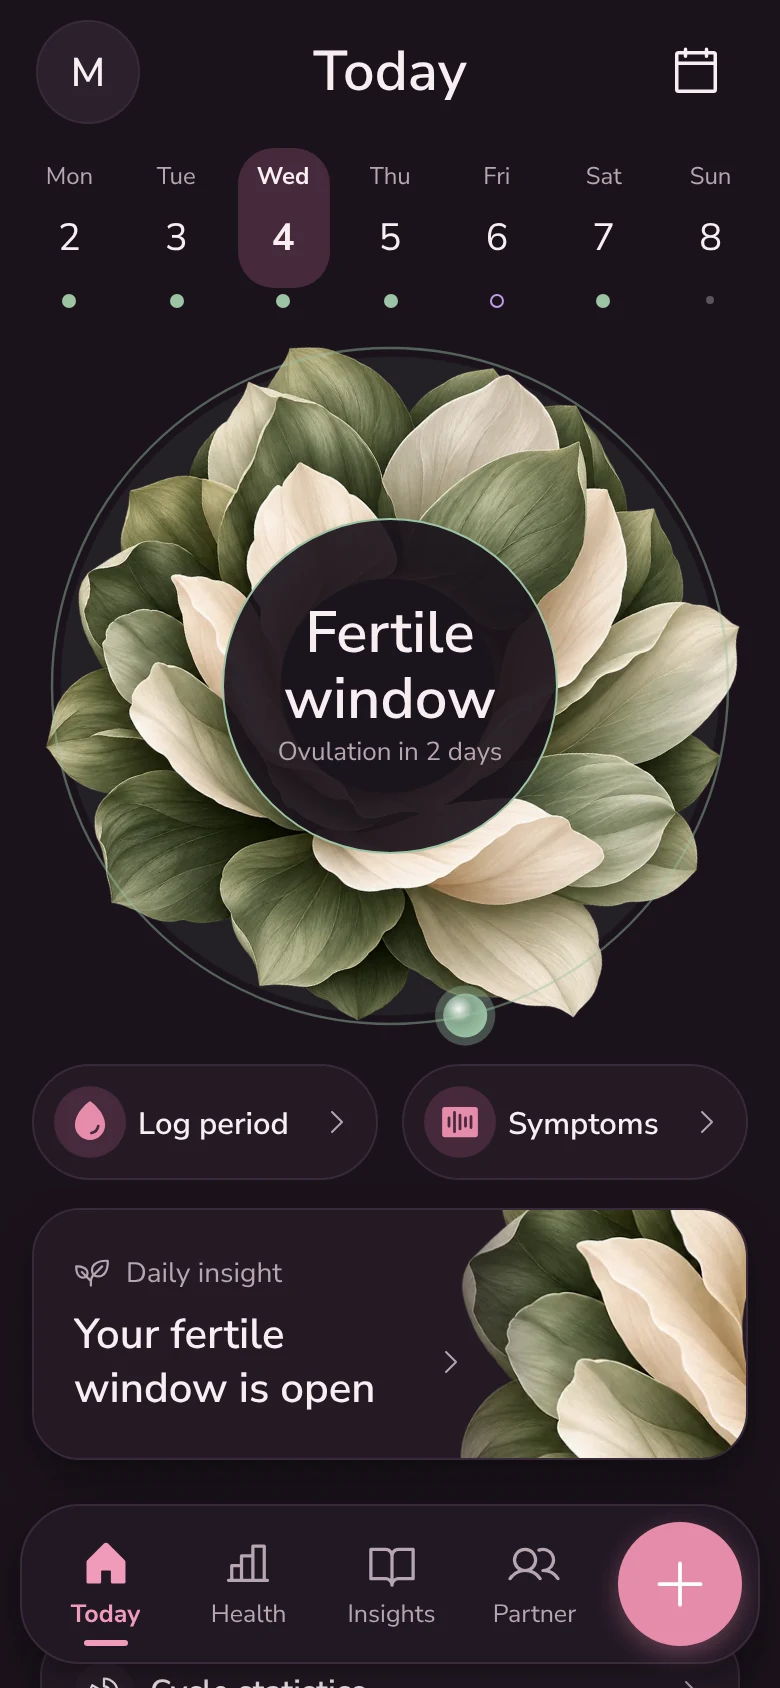
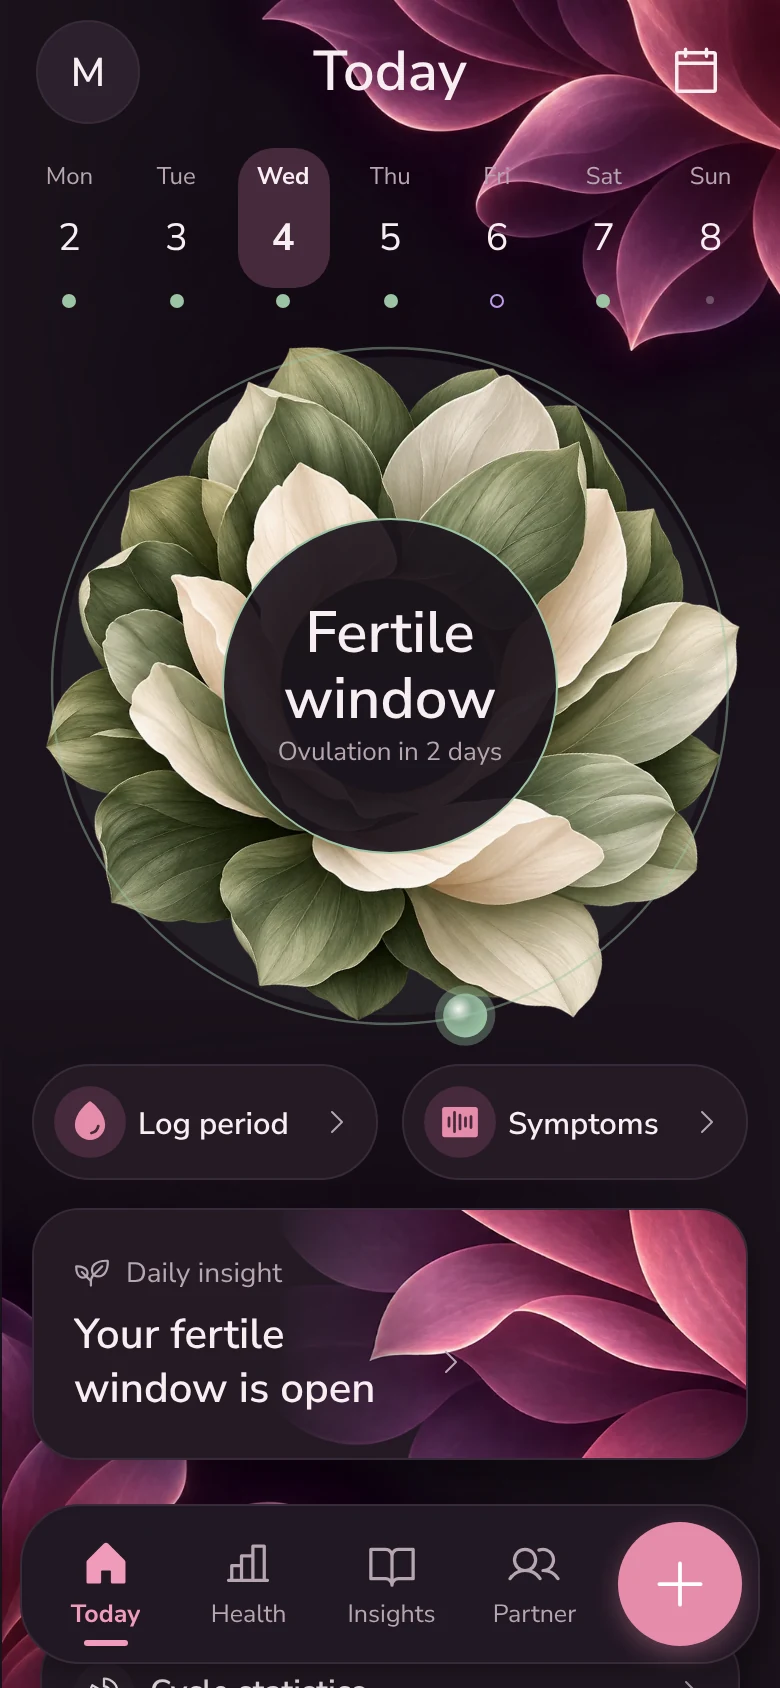
Corner and card petals from the new artwork, matched to light and dark themes
- Today, Health and Insights: 'Light/Dark Corner Petals' pinned to the screen corners behind the
  content (fixed, decorative). Each image is split into top and bottom pieces so it fits phones,
  tablets and desktops; the dark pieces' inner edges are softened so no seam shows on wide screens.
  Replaces the old single corner bloom.
- Today's Daily insight card: 'Light/Dark Card Petals' along the right edge.
- Health: the sticky tab row is transparent at the top and solid once it sticks.
- Originals in design/petals/, optimised copies in app/assets/petals/; README screenshots refreshed.

Claude-Session: https://claude.ai/code/session_01MSWr9YJh93DQjGqFjrqjsk

Changed region(s): [[0.3385, 0.0, 1.0, 0.2156], [0.4, 0.7085, 0.9538, 0.8626], [0.0, 0.7701, 0.2462, 1.0]]

diff --git a/app/src/screens/Health.tsx b/app/src/screens/Health.tsx
@@ -1,4 +1,5 @@
 import React, { useEffect, useMemo, useState } from 'react';
+import { PetalBackdrop } from '../petals';
 import { ScrollView, StyleSheet, View, useWindowDimensions } from 'react-native';
 import Reanimated, { FadeIn, FadeInDown, useAnimatedStyle, useReducedMotion, useSharedValue, withSpring } from 'react-native-reanimated';
 import { useSafeAreaInsets } from 'react-native-safe-area-context';
@@ -90,6 +91,8 @@ export function Health() {
   useEffect(() => { if (nav.healthTab) setTab(nav.healthTab); }, [nav.healthTab, nav.healthKey]);
   const d = useWidgetData();
   const [date, setDate] = useState<DateStr>(d.today);
+  // The tab row is see-through at the top (so the corner petals show) and solid once it sticks over content.
+  const [stuck, setStuck] = useState(false);
   const connections = useHealth((s) => s.connections);
   const sample = useHealth((s) => s.sample);
   const connected = Object.keys(connections).length > 0;
@@ -128,40 +131,44 @@ export function Health() {
     { metric: 'tempDeviationC', title: 'Temperature vs baseline', icon: 'thermometer', kind: 'line', color: colors.period, fmt: (v) => `${v >= 0 ? '+' : '−'}${Math.abs(d.unit === 'F' ? v * 1.8 : v).toFixed(2)} °${d.unit}`, opens: 'body', optional: true },
   ];
   return (
-    <ScrollView contentContainerStyle={{ paddingTop: insets.top + 8, paddingBottom: 140, maxWidth: 640, width: '100%', alignSelf: 'center' }} stickyHeaderIndices={[1]}>
-      <TabHeader title="Health" onAvatar={() => nav.openSettings()}
-        right={<PressScale accessibilityLabel="Health connections" onPress={() => nav.openConnections()} style={h.iconBtn}><Icon name="link-variant" size={26} color={colors.heading} /></PressScale>} />
-      <View style={{ backgroundColor: colors.bg, paddingVertical: 8 }}>
-        <PillTabs options={TABS} value={tab} onChange={setTab} />
-      </View>
-      {sample ? (
-        <PressScale accessibilityRole="button" accessibilityLabel="Sample data is shown. Open connections" onPress={() => nav.openConnections()} style={h.sampleRow}>
-          <Text style={h.sampleT}>Sample data</Text>
-          <Icon name="info" size={16} color={colors.muted} />
-        </PressScale>
-      ) : null}
-      {tab === 'overview' ? (
-        <Reanimated.View key="overview" entering={FadeIn.duration(220)}>
-          {!connected && (
-            <Reanimated.View entering={FadeInDown.springify()} style={h.card}>
-              <Text style={h.cardTitle}>Connect your health data</Text>
-              <Text style={[h.sub, { color: colors.text, marginVertical: 6 }]}>Apple Health, Health Connect (Samsung Health, Fitbit, Google and more on Android) or your Fitbit account.</Text>
-              <Btn icon="link-variant" title="Connect a tracker" onPress={() => nav.openConnections()} />
-            </Reanimated.View>
-          )}
-          {cards.filter((c) => !c.optional || Object.values(d.days).some((x) => x[c.metric] != null)).map((c, i) => <OverviewCard key={c.metric} def={c} delay={i * STAGGER} onPress={() => setTab(c.opens)} />)}
-        </Reanimated.View>
-      ) : (
-        <Reanimated.View key={tab} entering={FadeIn.duration(220)}>
-          <View style={h.dayNav}>
-            <PressScale accessibilityLabel="Previous day" onPress={() => setDate(addDays(date, -1))} style={h.iconBtn}><Icon name="chevron-left" size={24} color={colors.heading} /></PressScale>
-            <View style={h.dayPill}><Text style={{ fontSize: 18, fontWeight: '600', color: colors.heading }}>{date === d.today ? 'Today' : fmtDay(date)}</Text></View>
-            <PressScale accessibilityLabel="Next day" disabled={date >= d.today} onPress={() => setDate(addDays(date, 1))} style={[h.iconBtn, date >= d.today && { opacity: 0.3 }]}><Icon name="chevron-right" size={24} color={colors.heading} /></PressScale>
-          </View>
-          {cfg[tab].filter((c) => !['hrv', 'tempDeviationC'].includes(c.metric) || Object.values(d.days).some((x) => x[c.metric] != null)).map((c, i) => <MetricBlock key={c.metric} cfg={c} date={date} delay={i * STAGGER * 2} />)}
-        </Reanimated.View>
-      )}
-    </ScrollView>
+    <View style={{ flex: 1, backgroundColor: colors.bg }}>
+      <PetalBackdrop />
+      <ScrollView contentContainerStyle={{ paddingTop: insets.top + 8, paddingBottom: 140, maxWidth: 640, width: '100%', alignSelf: 'center' }} stickyHeaderIndices={[1]}
+        scrollEventThrottle={32} onScroll={(e) => { const s = e.nativeEvent.contentOffset.y > 24; if (s !== stuck) setStuck(s); }}>
+        <TabHeader title="Health" onAvatar={() => nav.openSettings()}
+          right={<PressScale accessibilityLabel="Health connections" onPress={() => nav.openConnections()} style={h.iconBtn}><Icon name="link-variant" size={26} color={colors.heading} /></PressScale>} />
+        <View style={{ backgroundColor: stuck ? colors.bg : 'transparent', paddingVertical: 8 }}>
+          <PillTabs options={TABS} value={tab} onChange={setTab} />
+        </View>
+        {sample ? (
+          <PressScale accessibilityRole="button" accessibilityLabel="Sample data is shown. Open connections" onPress={() => nav.openConnections()} style={h.sampleRow}>
+            <Text style={h.sampleT}>Sample data</Text>
+            <Icon name="info" size={16} color={colors.muted} />
+          </PressScale>
+        ) : null}
+        {tab === 'overview' ? (
+          <Reanimated.View key="overview" entering={FadeIn.duration(220)}>
+            {!connected && (
+              <Reanimated.View entering={FadeInDown.springify()} style={h.card}>
+                <Text style={h.cardTitle}>Connect your health data</Text>
+                <Text style={[h.sub, { color: colors.text, marginVertical: 6 }]}>Apple Health, Health Connect (Samsung Health, Fitbit, Google and more on Android) or your Fitbit account.</Text>
+                <Btn icon="link-variant" title="Connect a tracker" onPress={() => nav.openConnections()} />
+              </Reanimated.View>
+            )}
+            {cards.filter((c) => !c.optional || Object.values(d.days).some((x) => x[c.metric] != null)).map((c, i) => <OverviewCard key={c.metric} def={c} delay={i * STAGGER} onPress={() => setTab(c.opens)} />)}
+          </Reanimated.View>
+        ) : (
+          <Reanimated.View key={tab} entering={FadeIn.duration(220)}>
+            <View style={h.dayNav}>
+              <PressScale accessibilityLabel="Previous day" onPress={() => setDate(addDays(date, -1))} style={h.iconBtn}><Icon name="chevron-left" size={24} color={colors.heading} /></PressScale>
+              <View style={h.dayPill}><Text style={{ fontSize: 18, fontWeight: '600', color: colors.heading }}>{date === d.today ? 'Today' : fmtDay(date)}</Text></View>
+              <PressScale accessibilityLabel="Next day" disabled={date >= d.today} onPress={() => setDate(addDays(date, 1))} style={[h.iconBtn, date >= d.today && { opacity: 0.3 }]}><Icon name="chevron-right" size={24} color={colors.heading} /></PressScale>
+            </View>
+            {cfg[tab].filter((c) => !['hrv', 'tempDeviationC'].includes(c.metric) || Object.values(d.days).some((x) => x[c.metric] != null)).map((c, i) => <MetricBlock key={c.metric} cfg={c} date={date} delay={i * STAGGER * 2} />)}
+          </Reanimated.View>
+        )}
+      </ScrollView>
+    </View>
   );
 }
 

diff --git a/app/src/petals.tsx b/app/src/petals.tsx
@@ -1,0 +1,55 @@
+import React, { useState } from 'react';
+import { Image, StyleSheet, View, useWindowDimensions, type ImageSourcePropType } from 'react-native';
+import { scheme } from './theme';
+
+/**
+ * Petal artwork for the light and dark themes (originals in design/petals/).
+ * The full-screen corner images are split into a top and a bottom piece so each can be pinned to its corner
+ * on any screen shape (phones are taller than the 9:16 artwork, tablets and desktops are wider).
+ */
+type Piece = { src: ImageSourcePropType; ratio: number; side: 'left' | 'right' };
+const CORNERS: Record<'light' | 'dark', { top: Piece; bottom: Piece }> = {
+  light: {
+    top: { src: require('../assets/petals/corner-light-top.webp'), ratio: 1.6804, side: 'left' },
+    bottom: { src: require('../assets/petals/corner-light-bottom.webp'), ratio: 1.3216, side: 'right' },
+  },
+  dark: {
+    top: { src: require('../assets/petals/corner-dark-top.webp'), ratio: 1.1256, side: 'right' },
+    bottom: { src: require('../assets/petals/corner-dark-bottom.webp'), ratio: 1.1256, side: 'left' },
+  },
+};
+const CARD: Record<'light' | 'dark', { src: ImageSourcePropType; ratio: number }> = {
+  light: { src: require('../assets/petals/card-light.webp'), ratio: 3.5982 },
+  dark: { src: require('../assets/petals/card-dark.webp'), ratio: 3.4578 },
+};
+const themeKey = () => (scheme === 'dark' ? 'dark' : 'light');
+
+/**
+ * Petals in the screen corners, behind everything else on a tab screen. Fixed in place (they do not scroll)
+ * and purely decorative, so screen readers skip them.
+ */
+export function PetalBackdrop() {
+  const { width } = useWindowDimensions();
+  const w = Math.min(width, 520);
+  const { top, bottom } = CORNERS[themeKey()];
+  return (
+    <View pointerEvents="none" style={StyleSheet.absoluteFill} accessibilityElementsHidden importantForAccessibility="no-hide-descendants" testID="petal-backdrop">
+      <Image source={top.src} resizeMode="contain" fadeDuration={0}
+        style={{ position: 'absolute', top: 0, [top.side]: 0, width: w, height: w / top.ratio }} />
+      <Image source={bottom.src} resizeMode="contain" fadeDuration={0}
+        style={{ position: 'absolute', bottom: 0, [bottom.side]: 0, width: w, height: w / bottom.ratio }} />
+    </View>
+  );
+}
+
+/** Card petals filling a card's height from the right edge. Place it first inside a card with overflow hidden. */
+export function CardPetals() {
+  const [h, setH] = useState(0);
+  const art = CARD[themeKey()];
+  return (
+    <View pointerEvents="none" style={StyleSheet.absoluteFill} onLayout={(e) => setH(e.nativeEvent.layout.height)}
+      accessibilityElementsHidden importantForAccessibility="no-hide-descendants" testID="card-petals">
+      {h > 0 ? <Image source={art.src} resizeMode="contain" fadeDuration={0} style={{ position: 'absolute', right: 0, top: 0, height: h, width: h * art.ratio }} /> : null}
+    </View>
+  );
+}

diff --git a/app/src/screens/Insights.tsx b/app/src/screens/Insights.tsx
@@ -1,9 +1,10 @@
 import React, { useMemo, useState } from 'react';
-import { Animated, Image, ScrollView, StyleSheet, View } from 'react-native';
+import { Animated, ScrollView, StyleSheet, View } from 'react-native';
 import { Text } from '../text';
 import { useSafeAreaInsets } from 'react-native-safe-area-context';
 import { addDays, derivePeriods, describeSources, detectOvulation, diffDays, predict, today as todayFn, type DateStr, type DayLog } from '@avelune/core';
 import { FadeIn, PressScale, useLoop } from '../anim';
+import { PetalBackdrop } from '../petals';
 import { labelOf } from '../catalog';
 import { Chart, CycleBar, MiniBars, type Pt } from '../charts';
 import { fmtShort } from '../components';
@@ -11,7 +12,7 @@ import { ARTICLES, DISCLAIMER } from '../content';
 import { Icon, type IconName } from '../icons';
 import { useNav, type ChartKind } from '../nav';
 import { cToDisplay, kgToDisplay, selectLogs, selectSettings, useStore } from '../store';
-import { colors, flowers, scheme, shadow, themed, type Bloom } from '../theme';
+import { colors, scheme, shadow, themed } from '../theme';
 import { Btn, Muted, PillTabs, TopBar } from '../ui';
 import { TabHeader } from './Today';
 
@@ -19,17 +20,6 @@ const REG = { unknown: 'Log 3+ cycles', regular: 'Regular', 'somewhat-irregular'
 
 type InsTab = 'cycle' | 'trends' | 'patterns';
 const MON = ['Jan', 'Feb', 'Mar', 'Apr', 'May', 'Jun', 'Jul', 'Aug', 'Sep', 'Oct', 'Nov', 'Dec'];
-
-/** Decorative bloom tucked into the top-right corner of a tab screen. */
-export function CornerBloom({ bloom = 'menstrual', top = 0 }: { bloom?: Bloom; top?: number }) {
-  const v = useLoop(6000);
-  return (
-    <Animated.View pointerEvents="none" style={{ position: 'absolute', right: -112, top: top - 138, width: 260, height: 260, opacity: scheme === 'dark' ? 0.9 : 0.95,
-      transform: [{ rotate: v.interpolate({ inputRange: [0, 1], outputRange: ['-4deg', '4deg'] }) }] }}>
-      <Image source={flowers[bloom]} style={{ width: 260, height: 260 }} resizeMode="contain" accessibilityIgnoresInvertColors />
-    </Animated.View>
-  );
-}
 
 export function Insights() {
   const nav = useNav();
@@ -68,8 +58,8 @@ export function Insights() {
   ];
   return (
     <View style={{ flex: 1, backgroundColor: colors.bg }}>
+      <PetalBackdrop />
       <ScrollView contentContainerStyle={{ paddingTop: insets.top + 8, paddingBottom: 140, maxWidth: 640, width: '100%', alignSelf: 'center' }}>
-        <CornerBloom top={insets.top} />
         <TabHeader title="Insights" onAvatar={() => nav.openSettings()} />
         <View style={{ marginTop: 6, marginBottom: 6, paddingRight: 64 }}>
           <PillTabs fill options={[['cycle', 'Cycle'], ['trends', 'Trends'], ['patterns', 'Patterns']]} value={tab} onChange={setTab} />

diff --git a/app/src/bloom.tsx b/app/src/bloom.tsx
@@ -1,4 +1,5 @@
 import React, { useEffect, useState } from 'react';
+import { CardPetals } from './petals';
 import { Image, StyleSheet, View, useWindowDimensions } from 'react-native';
 import { LinearGradient } from 'expo-linear-gradient';
 import Reanimated, {
@@ -205,13 +206,13 @@ export function ActionPill({ icon, label, onPress }: { icon: IconName; label: st
   );
 }
 
-/** Daily insight card with a cropped bloom fading in from the right edge. */
-export function InsightCard({ title, bloom, onPress, eyebrow = 'Daily insight' }: { title: string; bloom: Bloom; onPress: () => void; eyebrow?: string }) {
+/** Daily insight card with the theme's card petals along the right edge. */
+export function InsightCard({ title, onPress, eyebrow = 'Daily insight' }: { title: string; onPress: () => void; eyebrow?: string }) {
   return (
     <PressScale accessibilityRole="button" accessibilityLabel={`${eyebrow}: ${title}`} onPress={onPress}>
       <View style={b2.insight}>
-        <Image source={flowers[bloom]} style={b2.insightArt} resizeMode="cover" accessibilityIgnoresInvertColors />
-        <LinearGradient colors={[colors.card, colors.card, 'transparent']} locations={[0, 0.5, 0.72]} start={{ x: 0, y: 0.5 }} end={{ x: 1, y: 0.5 }} style={StyleSheet.absoluteFill} />
+        <CardPetals />
+        <LinearGradient colors={[colors.card, colors.card, 'transparent']} locations={[0, 0.34, 0.56]} start={{ x: 0, y: 0.5 }} end={{ x: 1, y: 0.5 }} style={StyleSheet.absoluteFill} />
         <View style={{ flex: 1, paddingRight: 120 }}>
           <View style={{ flexDirection: 'row', alignItems: 'center', marginBottom: 8 }}>
             <Icon name="sprout" size={18} color={colors.muted} />
@@ -238,7 +239,6 @@ const b2 = themed(() => StyleSheet.create({
     flexDirection: 'row', alignItems: 'center', minHeight: 126, borderRadius: 24, padding: 20, overflow: 'hidden',
     backgroundColor: colors.card, borderWidth: 1, borderColor: colors.border, ...shadow,
   },
-  insightArt: { position: 'absolute', right: -300, top: -170, width: 460, height: 460 },
   eyebrow: { fontSize: 14, color: colors.muted, marginLeft: 8 },
   insightT: { flexShrink: 1, fontSize: 21, lineHeight: 27, color: colors.heading, fontWeight: '700' },
 }));

diff --git a/app/src/screens/Today.tsx b/app/src/screens/Today.tsx
@@ -9,6 +9,7 @@ import { FadeIn, PressScale } from '../anim';
 import { ARTICLES } from '../content';
 import { WeekStrip, fmtDay, statusFor, type Status } from '../components';
 import { ActionPill, BloomCircle, InsightCard } from '../bloom';
+import { PetalBackdrop } from '../petals';
 import { Icon, type IconName } from '../icons';
 import { useNav } from '../nav';
 import { selectLogs, selectSettings, useStore } from '../store';
@@ -114,6 +115,7 @@ export function Today() {
 
   return (
     <View style={{ flex: 1, backgroundColor: colors.bg }}>
+      <PetalBackdrop />
       <ScrollView contentContainerStyle={{ paddingTop: insets.top + 8, paddingBottom: 140, maxWidth: 640, width: '100%', alignSelf: 'center' }}>
         <TabHeader title={selected === today ? 'Today' : fmtDay(selected)} onAvatar={() => nav.openSettings()}
           right={<PressScale accessibilityLabel="Open calendar" onPress={() => nav.openCalendar()} style={st.iconBtn}><Icon name="calendar-month-outline" size={28} color={colors.heading} /></PressScale>} />
@@ -158,7 +160,7 @@ export function Today() {
         </FadeIn>
 
         <FadeIn delay={200} style={{ marginHorizontal: 16 }}>
-          <InsightCard bloom={bloom} title={insight.title} onPress={() => (preg ? nav.openWeek(preg.week) : nav.openArticle(insight.article ?? tips[0].id))} />
+          <InsightCard title={insight.title} onPress={() => (preg ? nav.openWeek(preg.week) : nav.openArticle(insight.article ?? tips[0].id))} />
         </FadeIn>
 
         <HomeWidgets onOpen={(def) => (def.opens ? nav.openHealth(def.opens) : def.id === 'cycleStats' || def.id === 'nextPeriod' ? nav.openChart('cycles') : nav.openLog(today))} />

diff --git a/docs/FEATURES.md b/docs/FEATURES.md
@@ -523,3 +523,13 @@ Cycle reminders pause in pregnancy mode. On the web, reminders are set up from t
 - **Settings → About Avelune:** the same points, ways to support the project, a GitHub link, and the terms and privacy policy.
 - **Source of the text:** `app/src/legal.ts`. `node scripts/legal-docs.mjs` regenerates `TERMS.md` and `PRIVACY.md` from it. The repository also has `LICENSE` (MIT), `CONTRIBUTING.md`, and screenshots in `docs/screenshots/`.
 
+
+## 14. Petal artwork
+
+- **Corner petals:** Today, Health and Insights show petals in the screen corners behind the content. Light theme uses "Light Corner Petals" (top-left and bottom-right); dark theme uses "Dark Corner Petals" (top-right and bottom-left).
+  - They stay in place while you scroll and are skipped by screen readers.
+  - Each image is split into a top and a bottom piece, pinned to its corners, so it fits any phone, tablet or desktop without cropping.
+  - On Health, the tab row is see-through at the top and turns solid once it sticks.
+  - The Partner page has no corner petals.
+- **Card petals:** the large "Daily insight" card on Today uses "Light Card Petals" or "Dark Card Petals", matching the theme, along its right edge.
+- **Files:** originals are in `design/petals/`; the app uses optimised copies in `app/assets/petals/`. All of it is in `app/src/petals.tsx`.
